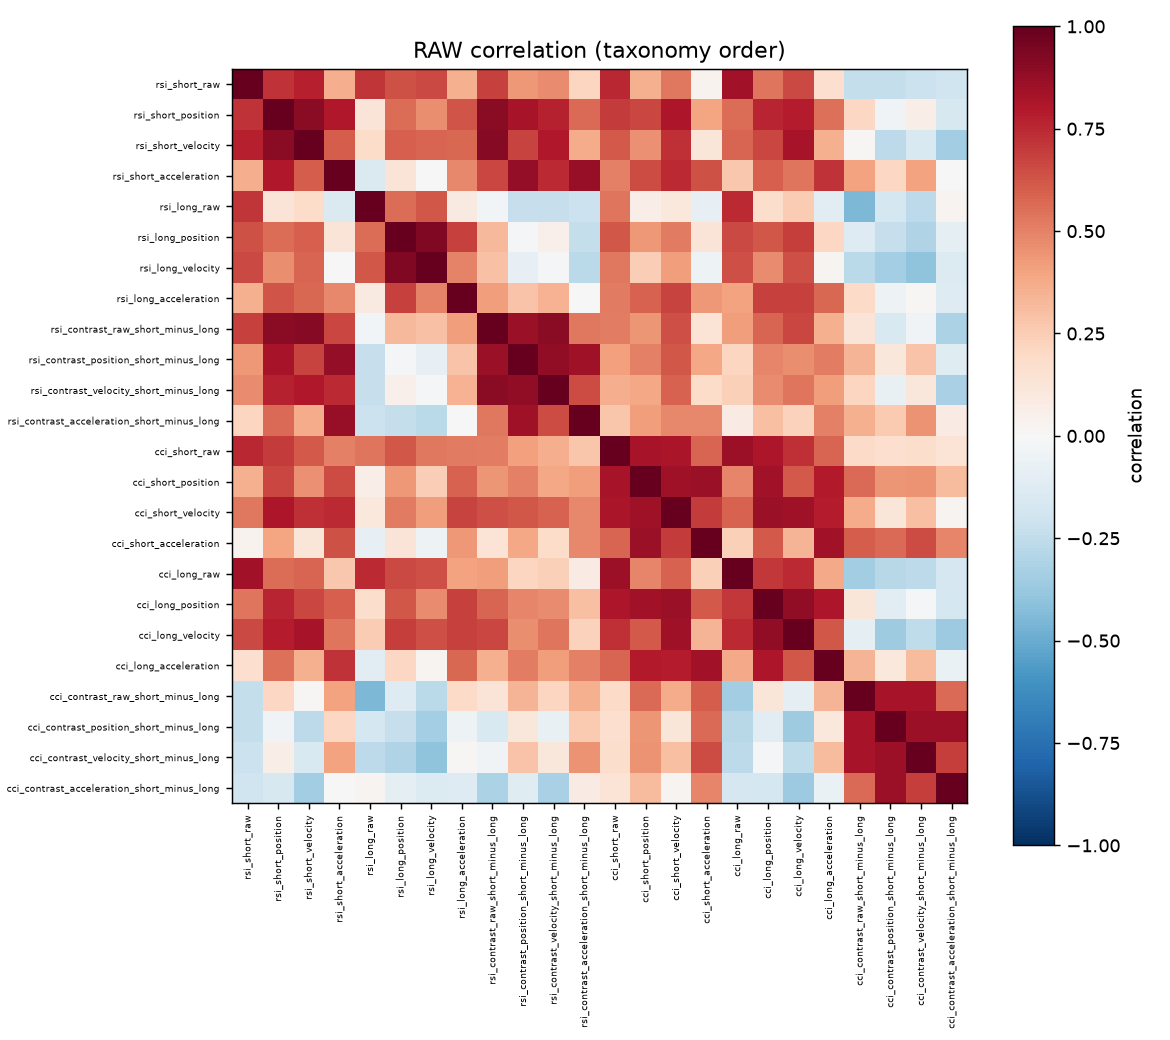
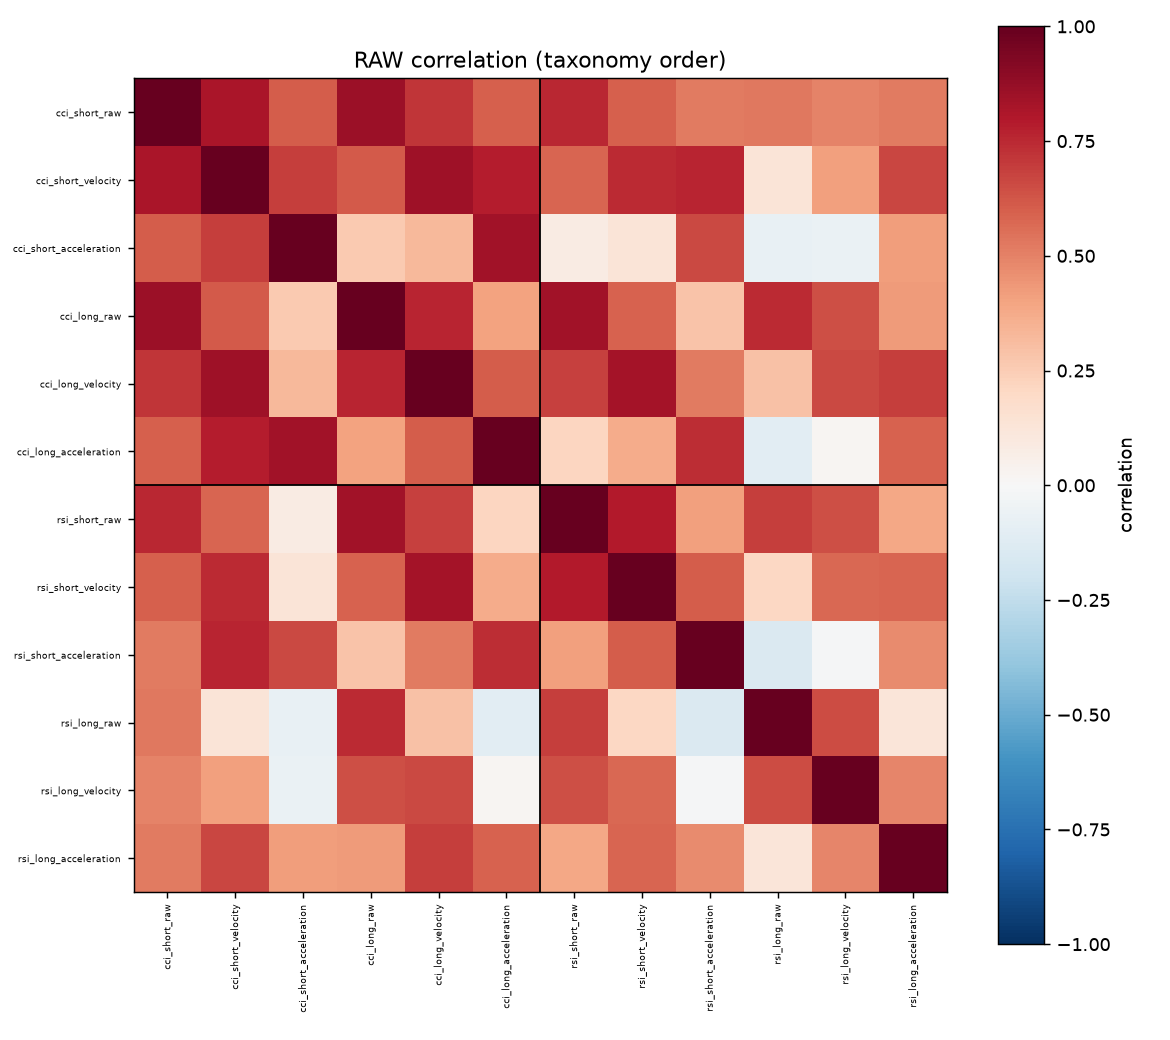
14jul updates

diff --git a/findata/preprocess/momentum.py b/findata/preprocess/momentum.py
@@ -23,7 +23,7 @@ from findata.preprocess.base import FeatureGroup, per_ticker
 
 # oscillators that take (ohlcv_df, period) and return a single Series
 SERIES_OSCILLATORS = ('rsi', 'cci', 'willr', 'mfi', 'cmf')
-QUANTITIES = ("raw", "position", "velocity", "acceleration", 'ema_fast', 'ema_slow')
+QUANTITIES = ("raw", "velocity", "acceleration")#, 'ema_fast', 'ema_slow')
 
 
 class Momentum(FeatureGroup):
@@ -31,7 +31,7 @@ class Momentum(FeatureGroup):
     default_scaler = "standard"
 
     def __init__(self, oscillators=("rsi",), windows=(("short", 14), ("long", 28)),
-                 smoothing_pair=(5, 20), signal_window=9,
+                 smoothing_pair=(6, 20), signal_window=9,
                  feature_set: str = "med", verbose: bool = False):
         super().__init__(feature_set=feature_set, verbose=verbose)
         oscillators = [oscillators] if isinstance(oscillators, str) else list(oscillators)
@@ -62,20 +62,12 @@ class Momentum(FeatureGroup):
                     "raw": raw,
                     "ema_slow": ema_slow,
                     "ema_fast": ema_fast,
-                    "position": raw - ema_slow,
                     "velocity": velocity,
                     "acceleration": velocity - ema(velocity, self.signal_window),
                 }
                 for q in QUANTITIES:
                     out[f"{osc}_{wname}_{q}"] = per_window[wname][q]
-            # cross-window contrasts: every native-window pair, per quantity
-            wnames = [w[0] for w in self.windows]
-            for i in range(len(wnames)):
-                for j in range(i + 1, len(wnames)):
-                    a, b = wnames[i], wnames[j]
-                    for q in QUANTITIES:
-                        out[f"{osc}_contrast_{q}_{a}_minus_{b}"] = (
-                            per_window[a][q] - per_window[b][q])
+
         return pd.DataFrame(out, index=df.index)
 
     def plot_fe(self, engineered: pd.DataFrame, raw: pd.DataFrame, indicator='rsi',
@@ -94,10 +86,8 @@ class Momentum(FeatureGroup):
         data_dict[f'{indicator}'] = {'value': [c for c in engineered.columns if any([n in c for n in ['raw', 'ema']]) and indicator in c and 'contrast' not in c],
                                      'options': [c for c in engineered.columns if
                                                  any([n in c for n in ['raw', 'ema']]) and 'contrast' not in c]}
-        data_dict[f'Change'] = {'value': [c for c in engineered.columns if any([n in c for n in ['vel', 'pos', 'acc']]) and indicator in c and 'contrast' not in c],
+        data_dict[f'Derivatives'] = {'value': [c for c in engineered.columns if any([n in c for n in ['vel', 'pos', 'acc']]) and indicator in c and 'contrast' not in c],
                               'options': [c for c in engineered.columns if any([n in c for n in ['vel', 'pos', 'acc']]) and 'contrast' not in c]}
-        data_dict[f'Contrast'] = {'value': [c for c in engineered.columns if 'contrast' in c and indicator in c],
-                                     'options': [c for c in engineered.columns if 'contrast' in c]}
 
         explorer = FeatureExplorer(df, data_dict, minimap_feature='close', ticker=ticker)
         explorer.serve()
@@ -147,25 +137,15 @@ if __name__ == "__main__":
     from findata import get_all_data, get_all_tickers
     from findata.configs import EXPERIMENT_DIR
 
-    tickers = get_all_tickers()[:2]
+    tickers = get_all_tickers()
     data, _ = get_all_data(tickers)
 
     mom = Momentum(oscillators=["rsi", "cci"])
     features = mom.engineer(data)
 
-    from findata.preprocess.transforms import KalmanDenoiser
-    import matplotlib.pyplot as plt
-    kk = KalmanDenoiser()
-    kk.fit(features.dropna())
-
-    kkt = kk.transform(features.dropna())
-
-    features.dropna()['rsi_short_position'].tail(200).plot()
-    kkt['rsi_short_position'].tail(200).plot()
-
     from findata.analysis import CorrelationStructureAnalysis
     cc = CorrelationStructureAnalysis()
-    #res = cc.run(features)
+    res = cc.run(features)
 
     mom.plot_fe(features, data)
 

diff --git a/findata/analysis/structure.py b/findata/analysis/structure.py
@@ -24,7 +24,7 @@ from findata.preprocess import rmt
 
 def parse_group(feature_name: str) -> str:
     """'momentum__rsi_short_raw' -> 'momentum'; no '__' -> 'component'."""
-    return feature_name.split("__", 1)[0] if "__" in feature_name else "component"
+    return feature_name.split("__", 1)[0] if "__" in feature_name else feature_name.split("_")[0]
 
 
 class CorrelationStructureAnalysis:
